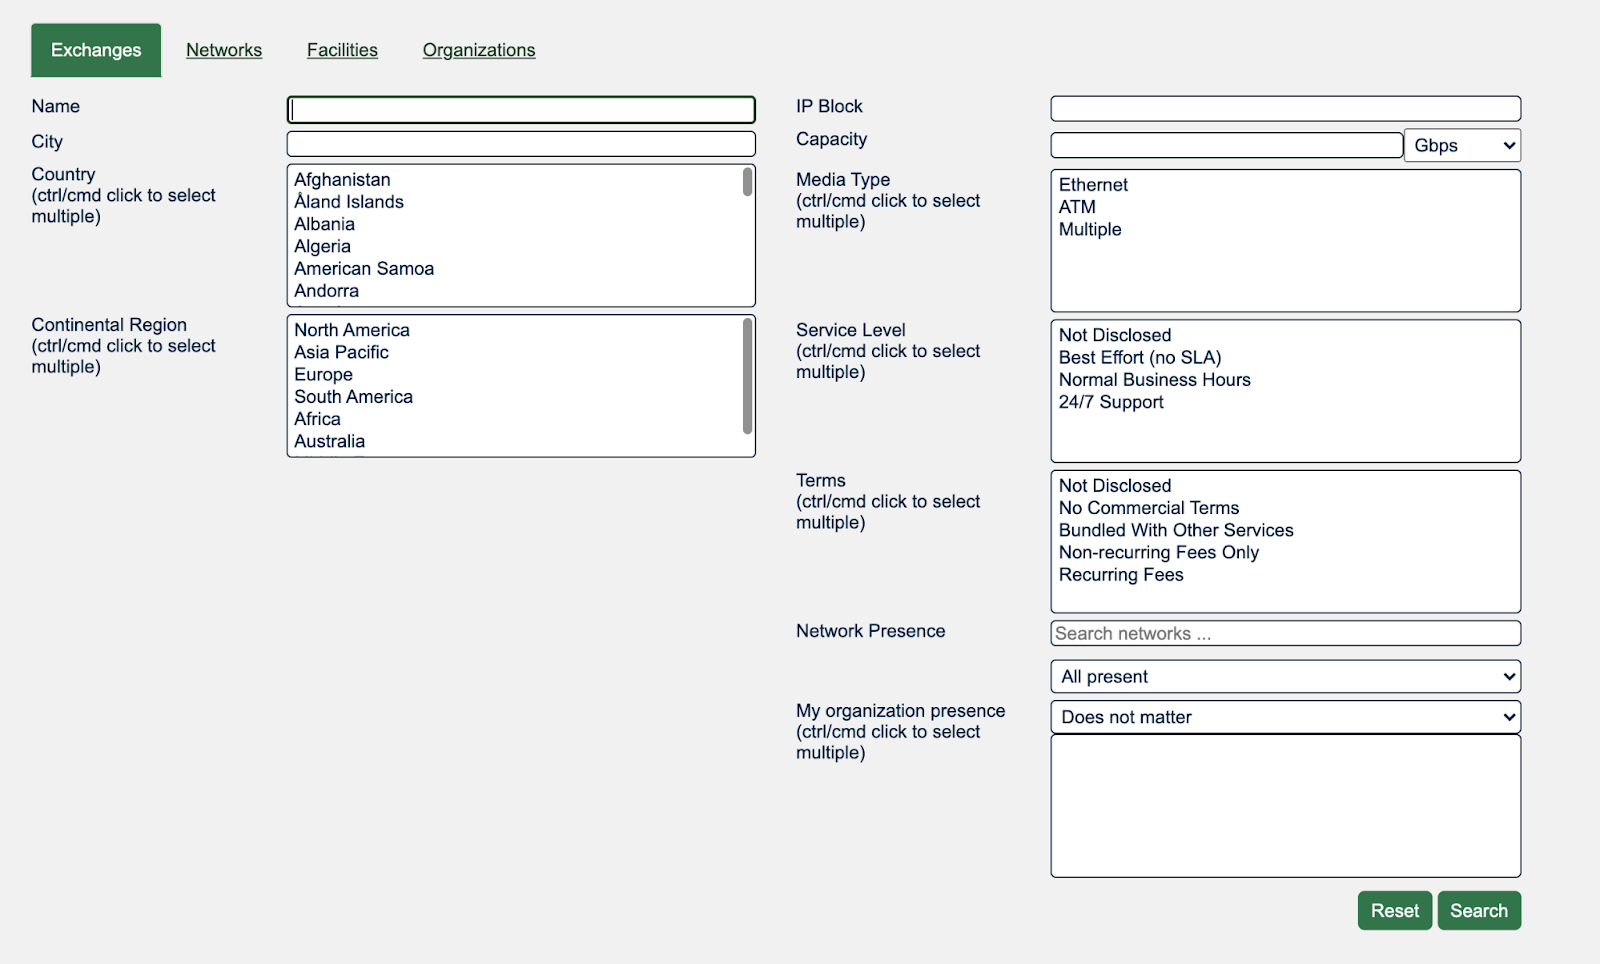
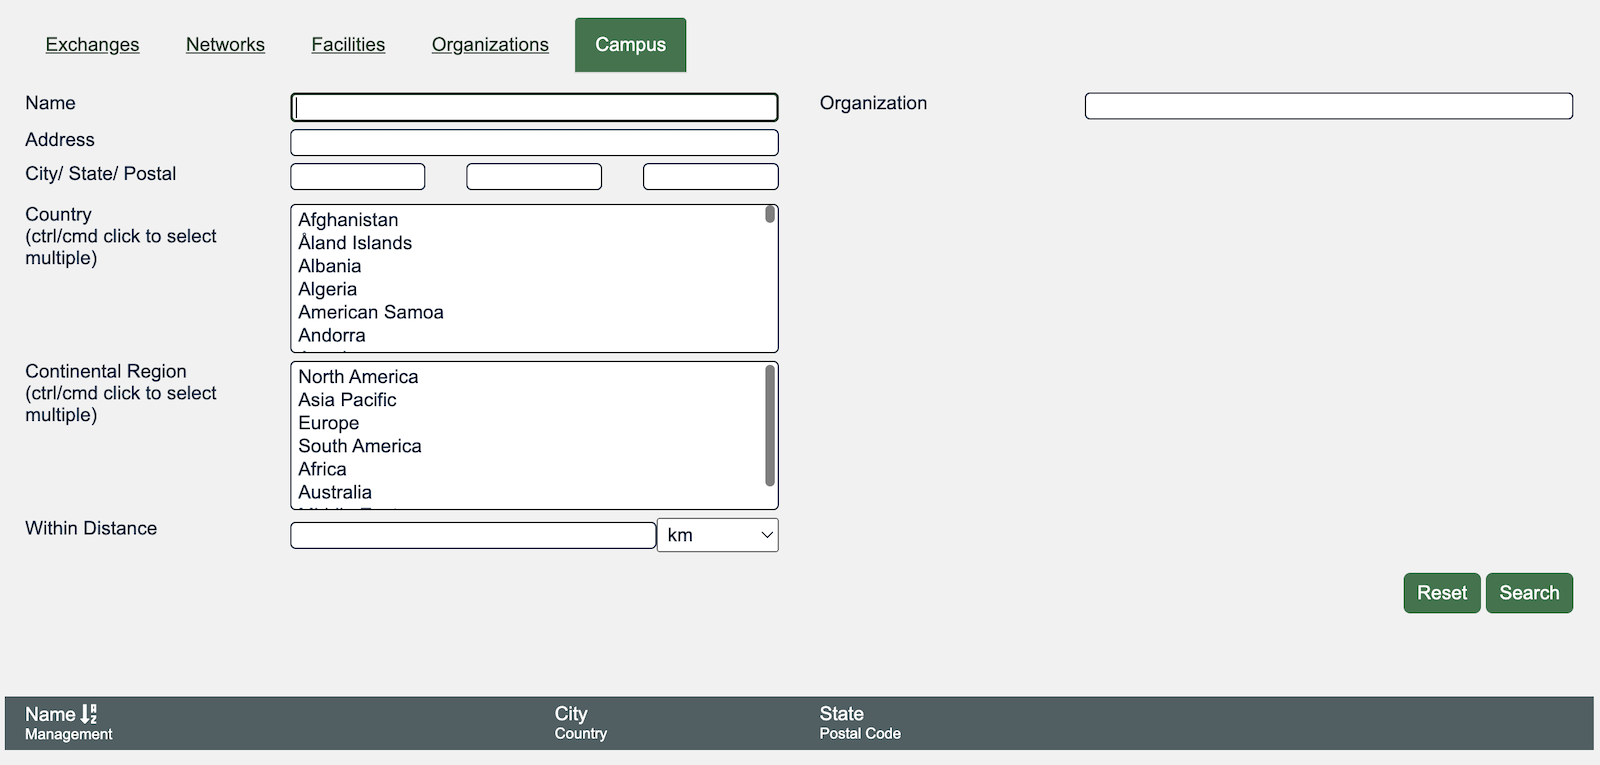
Update HOWTO article on search
1. Some stylistic changes to the text
2. Add references to campus and carrier objects
3. Added information on 'self' URLs
4. Adjust one image and add another

diff --git a/docs/howto/search.md b/docs/howto/search.md
@@ -8,15 +8,13 @@ This online database is a non-profit, community-driven effort that encourages th
 
 ## Why use PeeringDB to search for networks, exchange and data centers?
 
-There are a number of Autonomous System Numbers (ASNs) known as networks that use PeeringDB to store their interconnection information. Using PeeringDB, you'll be able to access and search for information about other networks requesting interconnection.  If you contribute your own data to PeeringDB then it's also possible for them to find out about your own network details. 
+About a third of networks (Autonomous Systems) use PeeringDB to share information about how they interconnect. You can use PeeringDB to find information about other networks, exchanges, and more. You make your services easier to find when you contribute your data to PeeringDB. 
 
-There is no need to create an account in order to use the basic search functionality. But if you want to access private contact information and use advanced search features, like radius search, you'll need to sign up for an account.
+You don't need an account to use the basic search functionality. But if you want to access private contact information and use advanced search features, like radius search, you'll need to sign up for an account.
 
-By using PeeringDB, data centers referred to as facilities and exchanges (IXPs) can increase their visibility to potential and existing customers by adding or updating their records in the database, making it significantly easier for networks to access information about their service.
+## How to search for campuses, carriers, exchanges, facilities and networks in PeeringDB
 
-## How to search for exchanges, facilities and networks in PeeringDB
-
-On the [front page](https://www.peeringdb.com/) of PeeringDB, you will see a simple search box which you can use to search for exchanges, facilities and networks that are on PeeringDB by simply entering the desired name on the search. Let’s demonstrate with some examples to see how this works.
+There is a s simple search box on the [front page](https://www.peeringdb.com/) of PeeringDB. You can use it to search for campuses, carriers, exchanges, facilities and networks listed in PeeringDB by simply entering the name you want. Let’s demonstrate with some examples to see how this works.
 
 ### Networks
 
@@ -58,6 +56,18 @@ To search for a facility:
 - From the search result, under the facilities section, locate the facility or data center you have searched
 
 ![facilites-search](images/facilites-search.png)
+
+## How to search for your own organization
+If your organization already uses PeeringDB, when you are logged in to the website you can always find your own information using the `self` search. If you are not logged in, these links will take you to some PeeringDB examples objects.
+
+- [Organization](https://www.peeringdb.com/org/self)
+- [Campus](https://www.peeringdb.com/campus/self)
+- [Carrier](https://www.peeringdb.com/carrier/self)
+- [Facility](https://www.peeringdb.com/fac/self)
+- [Internet Exchange Point](https://www.peeringdb.com/ix/self)
+- [Network](https://www.peeringdb.com/net/self)
+
+The `self` identifier also works for queries made using our API. We encourage the use of [multi-factor authentication](https://docs.peeringdb.com/howto/authenticate/). This means using an API Key instead of basic authentication for API queries.
 
 ## How to use the search in PeeringDB extension
 
@@ -101,11 +111,11 @@ Advanced search in PeeringDB lets you explicitly filter a search location, netwo
 
 **Note**: You need to be logged in to PeeringDB in order to use some of the advanced search features, including the radius search.
 
-Let’s take a look at this example below to demonstrate how advanced search works. We are going to search for an exchange within a particular region.  On the front page of PeeringDB you will see the Advanced Search box which you can use to search for exchanges, facilities and networks that are in PeeringDB.
+Let’s take a look at this example below to demonstrate how advanced search works. We are going to search for an exchange within a particular region.  On the front page of PeeringDB you will see the Advanced Search box which you can use to search for campuses, exchanges, facilities and networks that are in PeeringDB.
 
 ![advanced-search](images/advanced-search-link.png)
 
-- Click on the Advanced Search link. This takes you to the advanced search landing page. The search page shows the exchanges, networks, facilities and organizations tabs. 
+- Click on the Advanced Search link. This takes you to the advanced search landing page. The search page shows the campus, exchanges, facilities, networks, and organizations tabs. 
 
 ![advanced-search](images/advanced-search-interface.png)
 
@@ -127,6 +137,14 @@ Let’s take a look at this example below to demonstrate how advanced search wor
 ## Geographic search
 
 As new facilities are created in our database they will be linked to geographic coordinates. PeeringDB has improved search by changing the way it records data for location in its database. You can now search for facilities with a distance radius of a chosen coordinate. 
+
+### How to search for a campus
+
+You can search for a campus of facilities using the Advanced Search interface. Users can search from a country and city, and select a radius in kilometers or miles. Of course, you can achieve the same results using the API or the web interface, which means you can integrate this feature into your own tools.
+
+**Note**: You need to be logged in to PeeringDB in order to search for a campus of facilities.
+
+![advanced-search-campus-result](images/advanced-search-campus-result.png)
 
 ### How to search for facilities within a given radius
 
